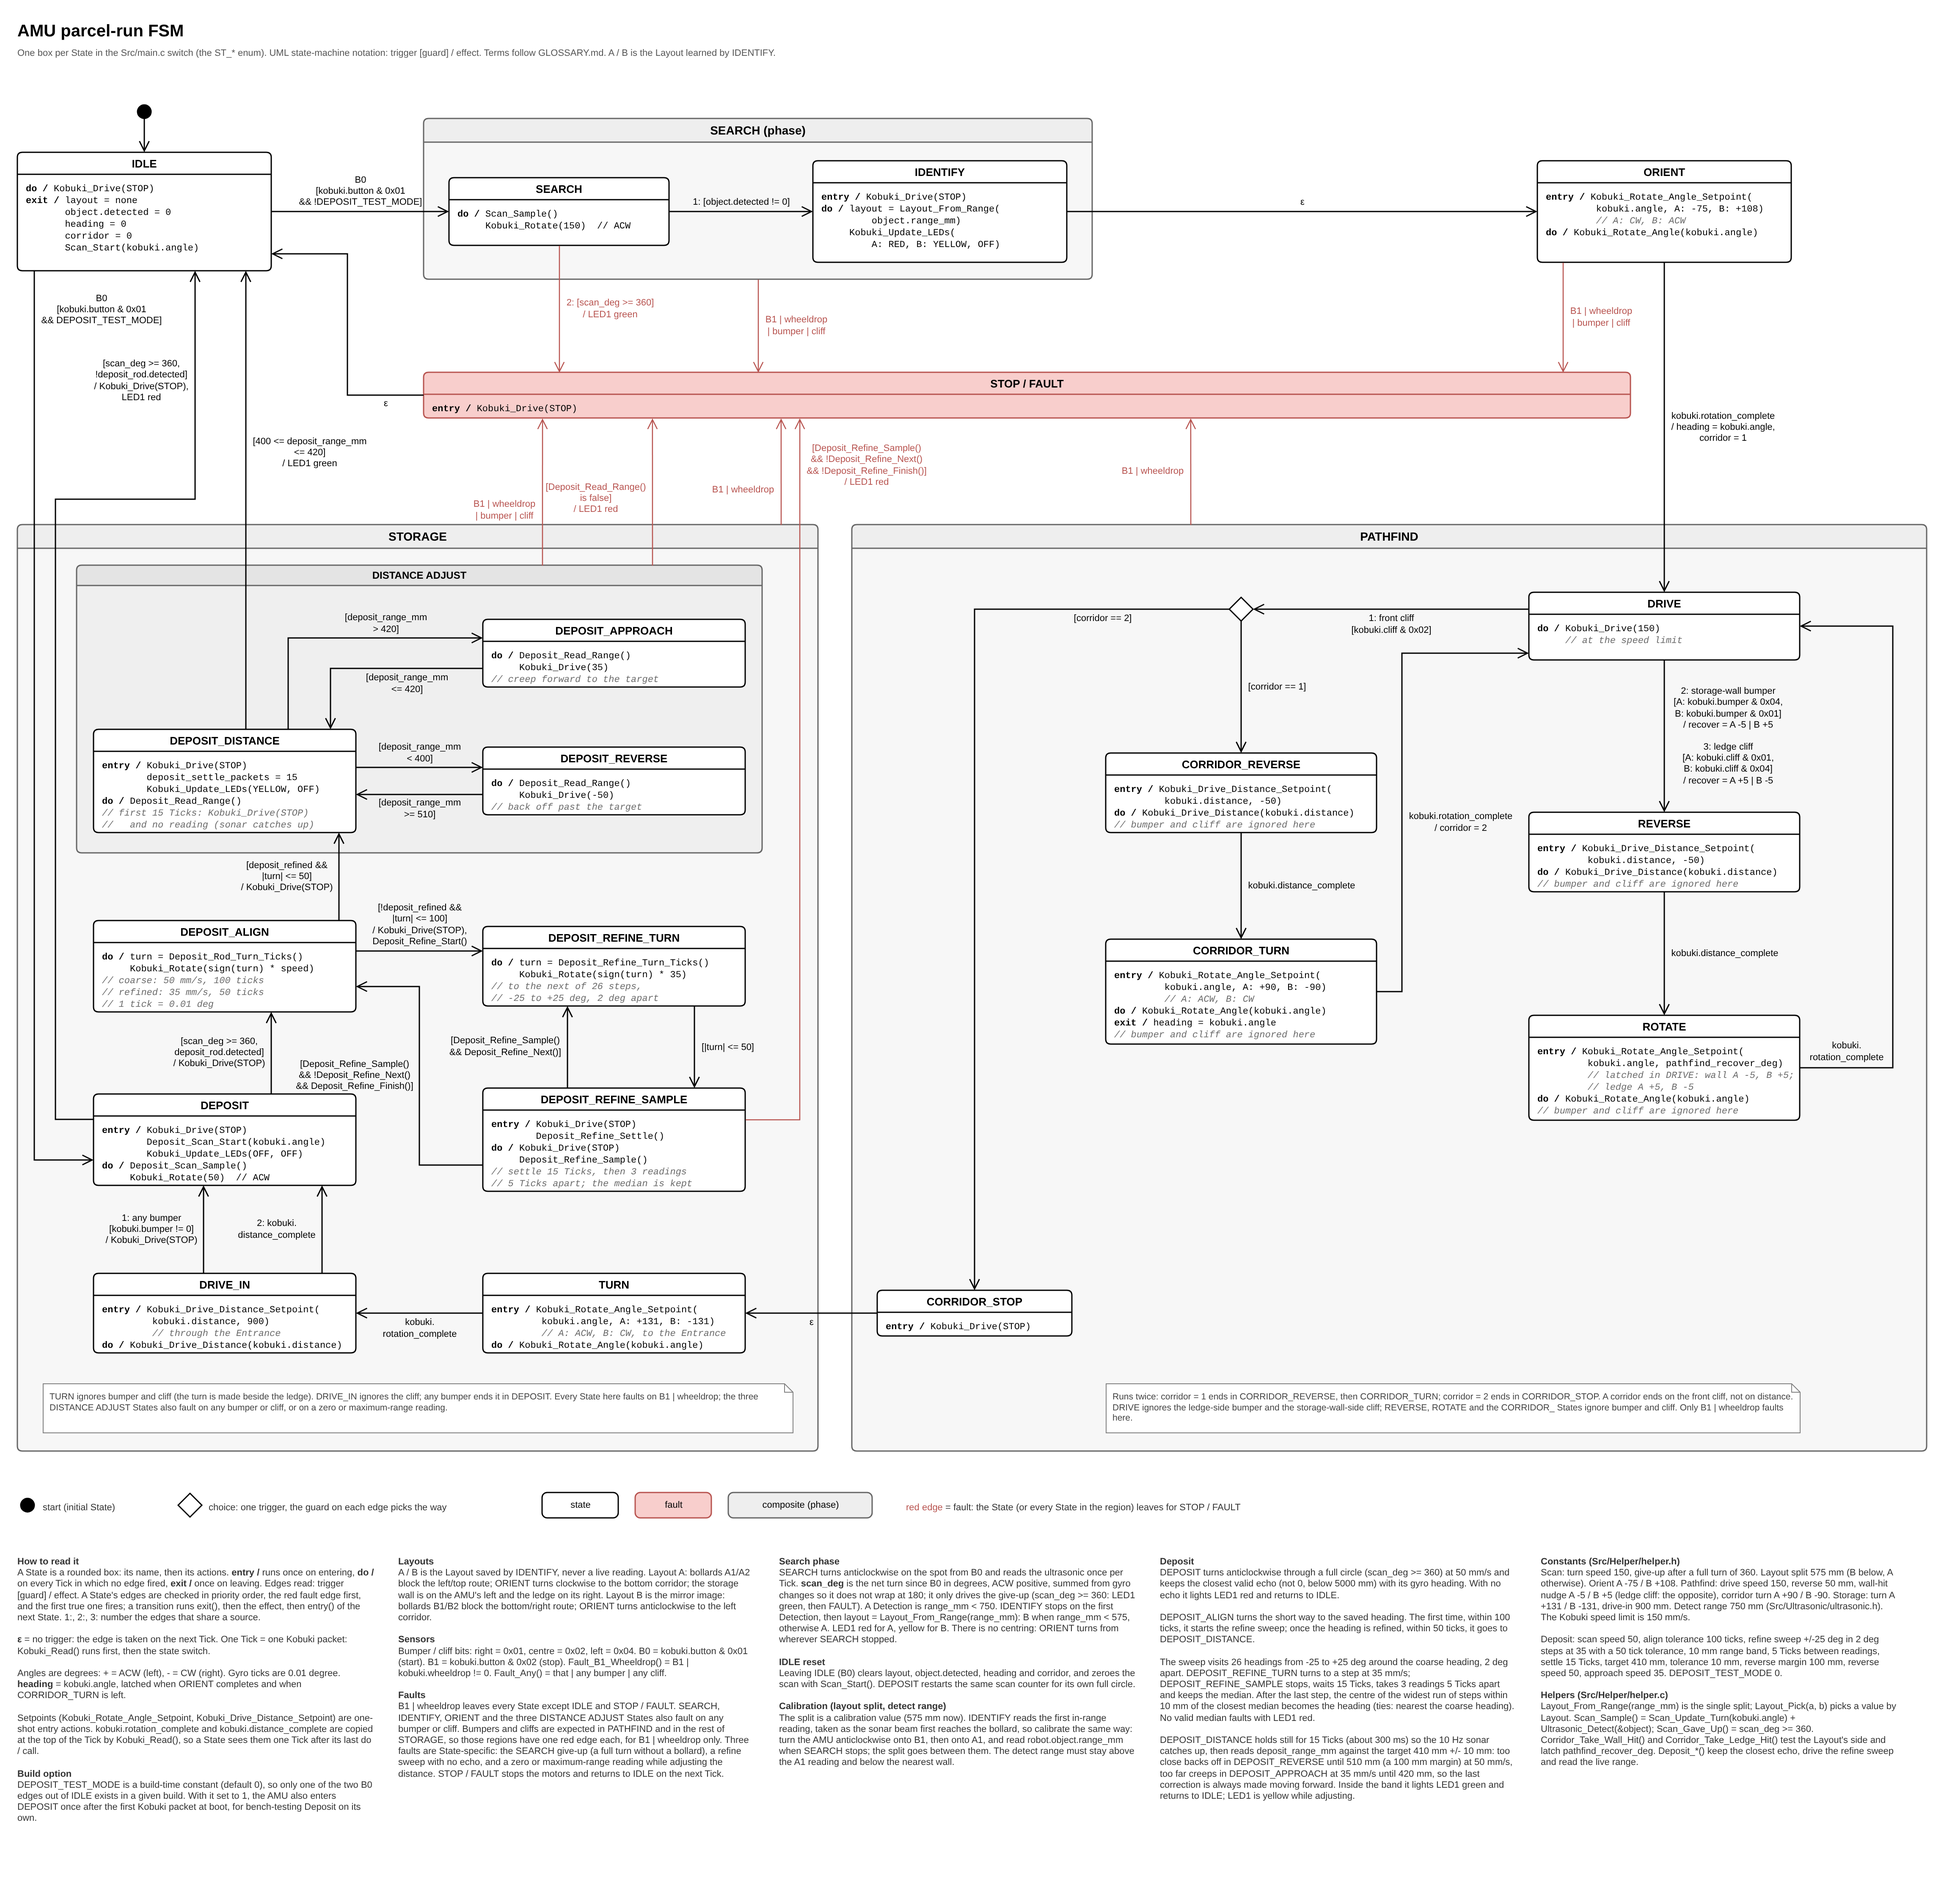
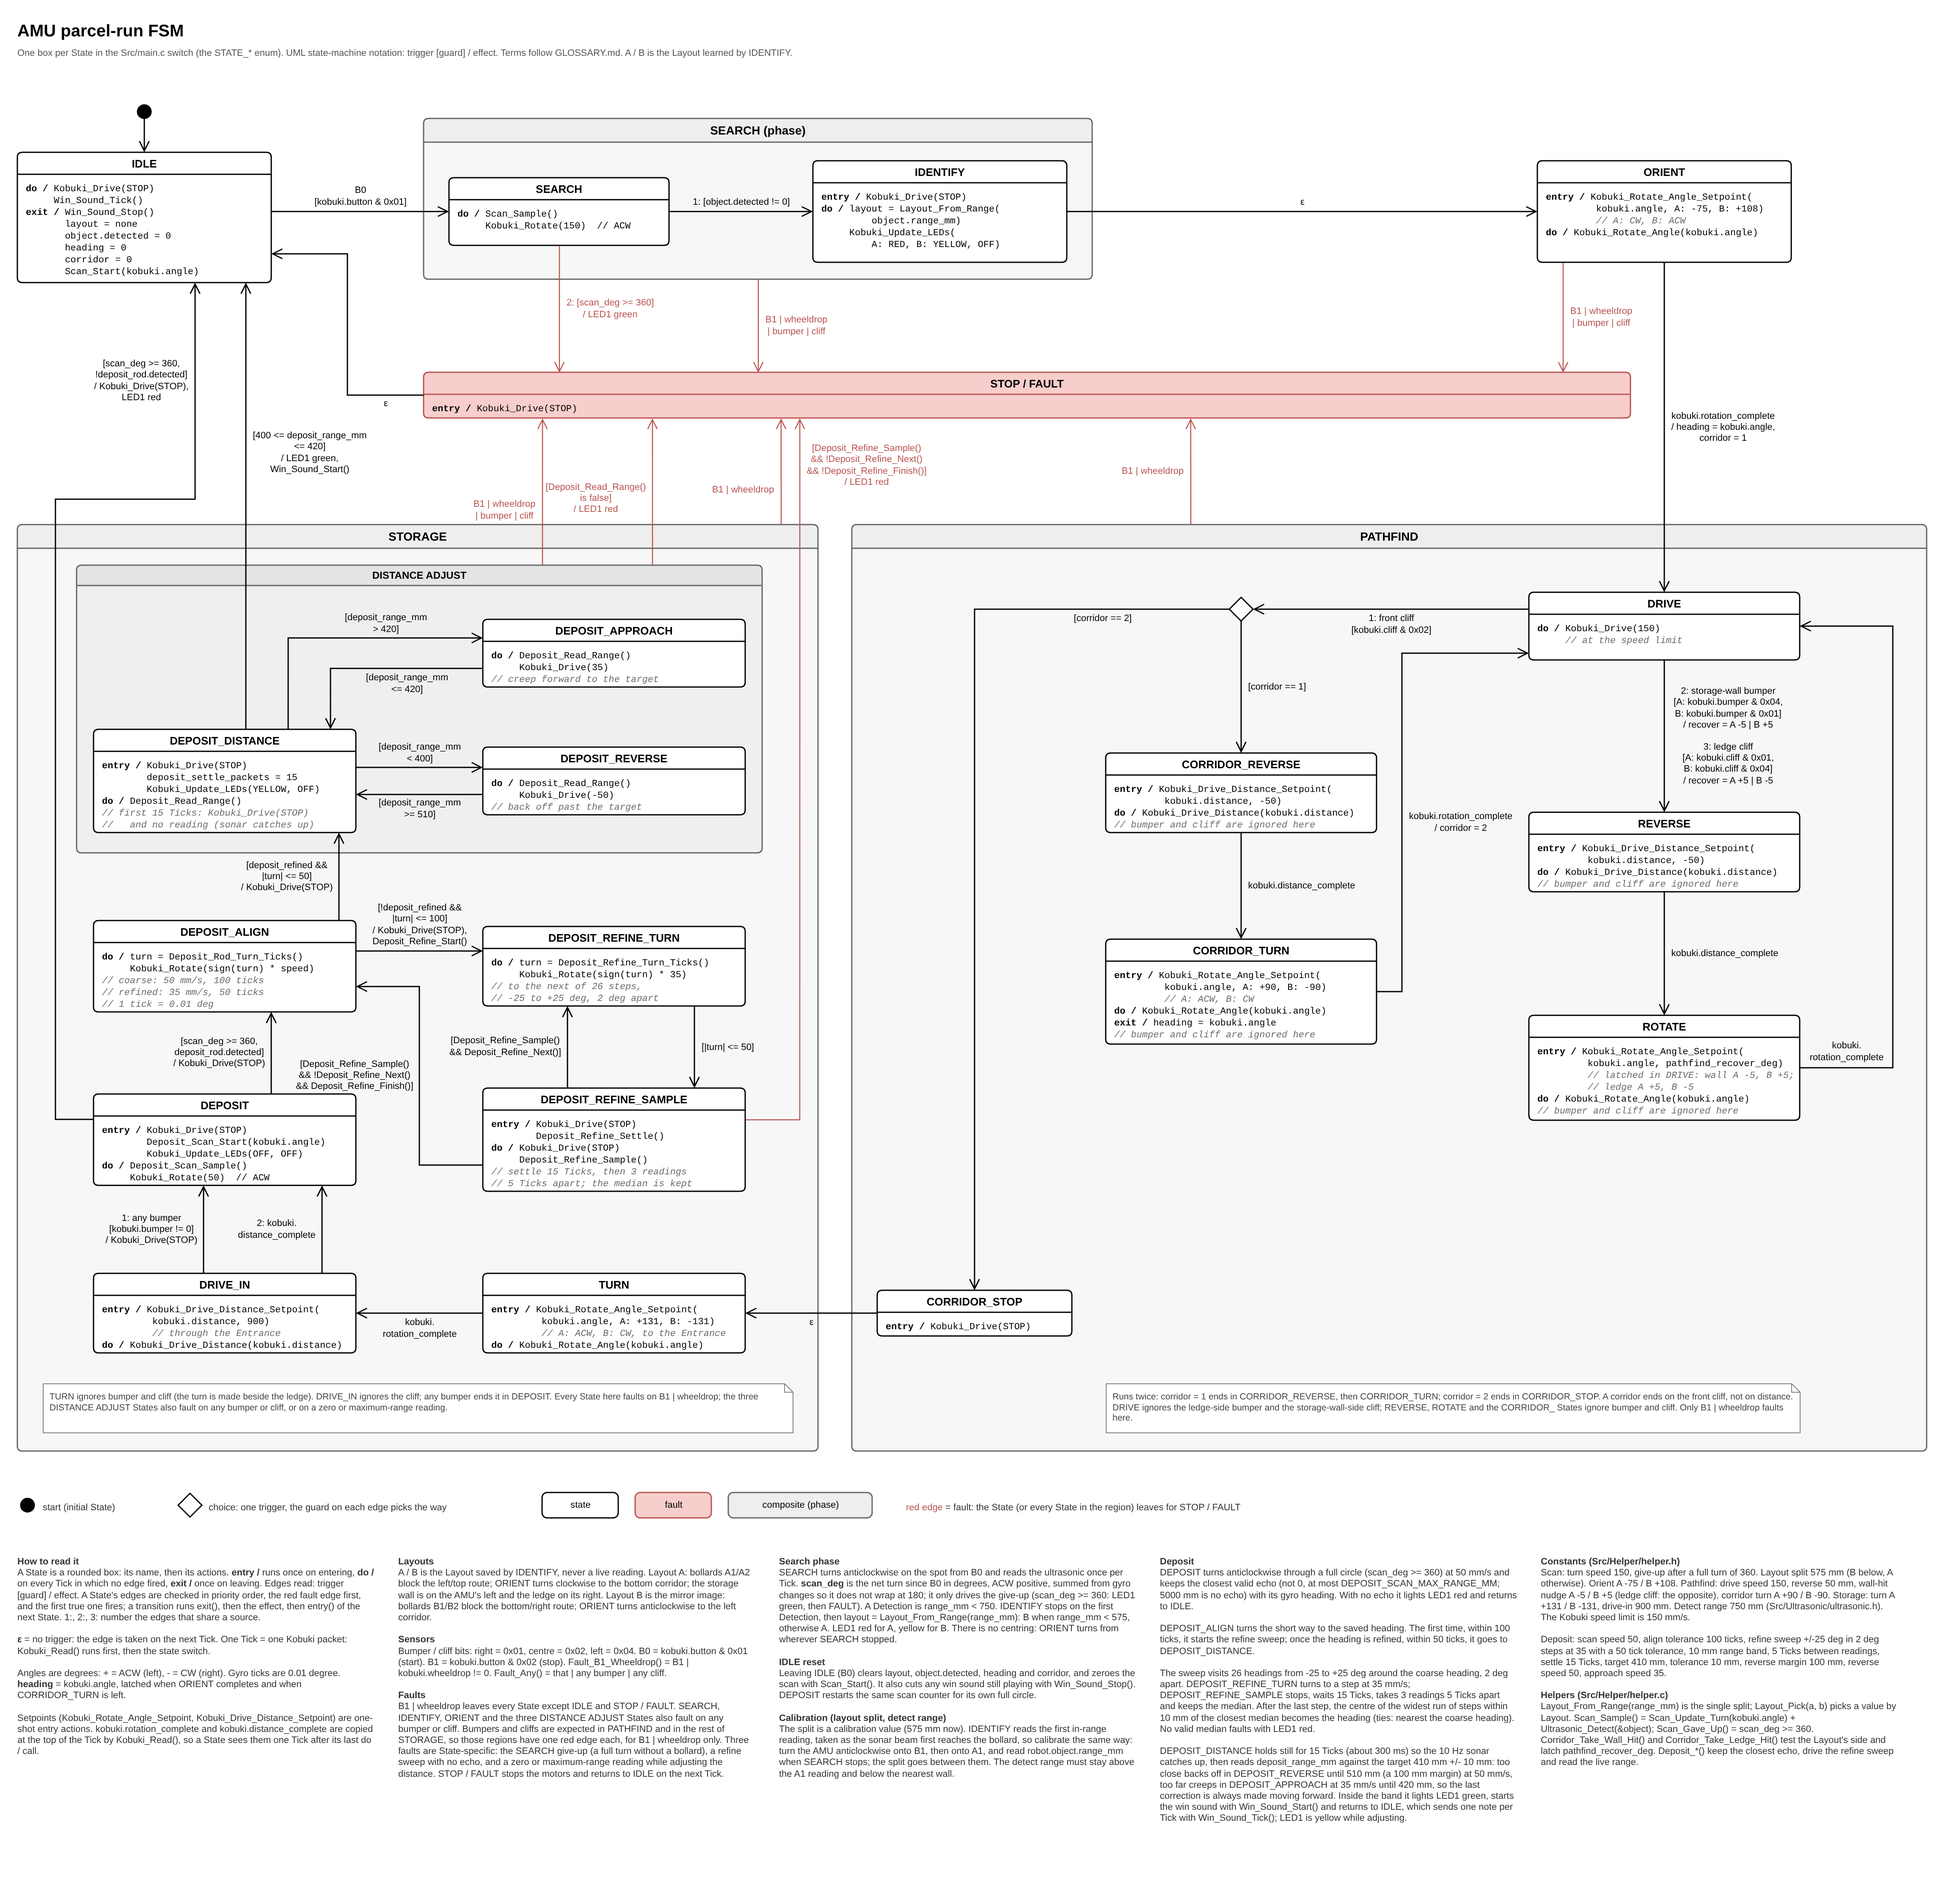
docs: sync FSM diagram and docs with the code
Remove the DEPOSIT_TEST_MODE edge and notes (the option no longer exists),
show Win_Sound_Stop() in IDLE's exit, and say STATE_* in the subtitle.
Fix the Deposit scan range in the README (3000 mm) and the Orient angles
in the glossary (A -75 / B +108). The checker now also covers exit actions.

Claude-Session: https://claude.ai/code/session_012MSpm3idFB7EGuywQYBMuC

diff --git a/docs/amu_fsm_gen.py b/docs/amu_fsm_gen.py
@@ -295,20 +295,23 @@ BAR_Y, BAR_H = 440, 54
 
 plain("title", 40, 20, 900, 30, "<b>AMU parcel-run FSM</b>", size=20, color="#000000")
 plain("subtitle", 40, 52, 2200, 18,
-      "One box per State in the Src/main.c switch (the ST_* enum). UML state-machine notation: "
+      "One box per State in the Src/main.c switch (the STATE_* enum). UML state-machine notation: "
       "trigger [guard] / effect. Terms follow GLOSSARY.md. A / B is the Layout learned by IDENTIFY.",
       size=11, color="#555555")
 
 # ---- initial pseudo-state (top-left) and IDLE
 pseudo("start", "ellipse", 182, 124, 16, "#000000")
+IDLE_H = 154
+IDLE_BOTTOM = 180 + IDLE_H
 state("idle", "1", 40, 180, 300, "IDLE", [
     "do / Kobuki_Drive(STOP)",
     "     Win_Sound_Tick()",
-    "exit / layout = none",
+    "exit / Win_Sound_Stop()",
+    "       layout = none",
     "       object.detected = 0",
     "       heading = 0",
     "       corridor = 0",
-    "       Scan_Start(kobuki.angle)"], hgt=140)
+    "       Scan_Start(kobuki.angle)"], hgt=IDLE_H)
 
 # ---- SEARCH phase
 composite("search_phase", 520, 140, 790, 190, "SEARCH (phase)")
@@ -478,7 +481,7 @@ BAR_MID = BAR_Y + BAR_H / 2
 # main flow: start -> IDLE -> SEARCH -> IDENTIFY -> ORIENT -> DRIVE -> ...
 edge("e_start", "start", "idle", [(190, 140), (190, 180)])
 edge("e_idle_search", "idle", "search", [(340, ROW1), (550, ROW1)],
-     lines=["B0", "[kobuki.button & 0x01", "&& !DEPOSIT_TEST_MODE]"], seg=0, side="above")
+     lines=["B0", "[kobuki.button & 0x01]"], seg=0, side="above")
 edge("e_search_identify", "search", "identify", [(810, ROW1), (980, ROW1)],
      lines=["1: [object.detected != 0]"], seg=0, side="above")
 edge("e_identify_orient", "identify", "orient", [(1280, ROW1), (ORIENT_X, ROW1)],
@@ -560,15 +563,12 @@ edge("e_drivein_deposit_done", "drive_in", "deposit",
 edge("e_deposit_align", "deposit", "d_align", [(C1 + 210, gy("deposit")), (C1 + 210, bottom("d_align"))],
      lines=["[scan_deg >= 360,", "deposit_rod.detected]", "/ Kobuki_Drive(STOP)"], seg=0, side="left", gap=8)
 
-# DEPOSIT <-> IDLE lanes on the left margin: T goes down on the outer lane, N comes back up on the inner one
-LANE_T, LANE_N, JOG_Y = 60, 85, 590
+# DEPOSIT -> IDLE lane on the left margin (no echo in the full-circle scan)
+LANE_N, JOG_Y = 85, 590
 N_X, D_X = 250, 310
-yN, yT = yD - 24, yD + 24
-T_LBL = ["B0", "[kobuki.button & 0x01", "&& DEPOSIT_TEST_MODE]"]
+yN = yD - 24
 N_LBL = ["[scan_deg >= 360,", "!deposit_rod.detected]", "/ Kobuki_Drive(STOP),", "LED1 red"]
-edge("e_idle_deposit", "idle", "deposit", [(LANE_T, 320), (LANE_T, yT), (C1, yT)],
-     lines=T_LBL, seg=0, side="right", gap=8, at=lbl_right_of(LANE_T, 365, T_LBL))
-edge("e_deposit_idle", "deposit", "idle", [(C1, yN), (LANE_N, yN), (LANE_N, JOG_Y), (N_X, JOG_Y), (N_X, 320)],
+edge("e_deposit_idle", "deposit", "idle", [(C1, yN), (LANE_N, yN), (LANE_N, JOG_Y), (N_X, JOG_Y), (N_X, IDLE_BOTTOM)],
      lines=N_LBL, seg=3, side="left", gap=8, at=lbl_left_of(N_X, 450, N_LBL))
 
 edge("e_align_rturn", "d_align", "d_rturn", [(C1R, yC - 18), (C2L, yC - 18)],
@@ -589,7 +589,7 @@ edge("e_rsample_align", "d_rsample", "d_align",
 E_B, E_C = C1 + 230, C1 + 280                    # elbow lanes on DISTANCE's top edge, right of the IDLE line
 y_app1, y_app2 = yA - 18, yA + 18
 D_LBL = ["[400 <= deposit_range_mm", "<= 420]", "/ LED1 green,", "Win_Sound_Start()"]
-edge("e_dist_idle", "d_dist", "idle", [(D_X, gy("d_dist")), (D_X, 320)],
+edge("e_dist_idle", "d_dist", "idle", [(D_X, gy("d_dist")), (D_X, IDLE_BOTTOM)],
      lines=D_LBL, seg=0, side="right", gap=8, at=lbl_right_of(D_X, 535, D_LBL))
 edge("e_dist_rev", "d_dist", "d_rev", [(C1R, yB - 16), (C2L, yB - 16)],
      lines=["[deposit_range_mm", "< 400]"], seg=0, side="above")
@@ -639,10 +639,7 @@ n1 = ("<b>How to read it</b><br>A State is a rounded box: its name, then its act
       "kobuki.angle, latched when ORIENT completes and when CORRIDOR_TURN is left.<br><br>"
       "Setpoints (Kobuki_Rotate_Angle_Setpoint, Kobuki_Drive_Distance_Setpoint) are one-shot entry actions. "
       "kobuki.rotation_complete and kobuki.distance_complete are copied at the top of the Tick by "
-      "Kobuki_Read(), so a State sees them one Tick after its last do / call.<br><br>"
-      "<b>Build option</b><br>DEPOSIT_TEST_MODE is a build-time constant (default 0), so only one of the two B0 "
-      "edges out of IDLE exists in a given build. With it set to 1, the AMU also enters DEPOSIT once after the "
-      "first Kobuki packet at boot, for bench-testing Deposit on its own.")
+      "Kobuki_Read(), so a State sees them one Tick after its last do / call.")
 
 n2 = ("<b>Layouts</b><br>A / B is the Layout saved by IDENTIFY, never a live reading. Layout A: bollards A1/A2 "
       "block the left/top route; ORIENT turns clockwise to the bottom corridor; the storage wall is on the "
@@ -697,7 +694,7 @@ n5 = ("<b>Constants (Src/Helper/helper.h)</b><br>Scan: turn speed 150, give-up a
       "speed limit is 150 mm/s.<br><br>"
       "Deposit: scan speed 50, align tolerance 100 ticks, refine sweep +/-25 deg in 2 deg steps at 35 with a "
       "50 tick tolerance, 10 mm range band, 5 Ticks between readings, settle 15 Ticks, target 410 mm, "
-      "tolerance 10 mm, reverse margin 100 mm, reverse speed 50, approach speed 35. DEPOSIT_TEST_MODE 0.<br><br>"
+      "tolerance 10 mm, reverse margin 100 mm, reverse speed 50, approach speed 35.<br><br>"
       "<b>Helpers (Src/Helper/helper.c)</b><br>Layout_From_Range(range_mm) is the single split; "
       "Layout_Pick(a, b) picks a value by Layout. Scan_Sample() = Scan_Update_Turn(kobuki.angle) + "
       "Ultrasonic_Detect(&amp;object); Scan_Gave_Up() = scan_deg >= 360. Corridor_Take_Wall_Hit() and "

diff --git a/docs/amu_fsm_check.py b/docs/amu_fsm_check.py
@@ -20,7 +20,7 @@ import xml.etree.ElementTree as ET
 REPO = os.path.dirname(os.path.dirname(os.path.abspath(__file__)))
 DRAWIO = sys.argv[1] if len(sys.argv) > 1 else os.path.join(REPO, "docs", "amu_fsm.drawio")
 
-# ST_* enum name -> diagram cell id
+# STATE_* enum name -> diagram cell id
 ID = {
     "STATE_IDLE": "idle", "STATE_SEARCH": "search", "STATE_IDENTIFY": "identify", "STATE_ORIENT": "orient",
     "STATE_DRIVE": "p_drive", "STATE_REVERSE": "p_reverse", "STATE_ROTATE": "p_rotate",
@@ -63,7 +63,7 @@ for name, body in zip(blocks[1::2], blocks[2::2]):
     code_specific[src] = "change_to(STATE_FAULT)" in rest
 
 states_enum = set(re.findall(r"\bSTATE_\w+", main_c[:main_c.index("} State;")]))
-check(states_enum == set(ID), "ST_* enum == the %d States the diagram maps (%s)" % (len(ID), sorted(states_enum ^ set(ID))))
+check(states_enum == set(ID), "STATE_* enum == the %d States the diagram maps (%s)" % (len(ID), sorted(states_enum ^ set(ID))))
 check(len(blocks[1::2]) == len(ID), "main.c switch has %d State cases (found %d)" % (len(ID), len(blocks[1::2])))
 
 # ---------------------------------------------------------- diagram side
@@ -204,8 +204,8 @@ detect = re.search(r"ULTRASONIC_DETECT_RANGE_MM \(\(uint16_t\)(\d+)U\)", ultra).
 maxr = re.search(r"ULTRASONIC_MAX_RANGE_MM\s+\(\(uint16_t\)(\d+)U\)", ultra).group(1)
 check("range_mm < %s" % detect in text, "detect range %s appears" % detect)
 check("%s mm" % maxr in text, "maximum range %s mm appears (no echo)" % maxr)
-check(re.search(r"#define DEPOSIT_TEST_MODE 0", helper_h) is not None and "DEPOSIT_TEST_MODE" in text,
-      "DEPOSIT_TEST_MODE (default 0) is drawn")
+check("DEPOSIT_TEST_MODE" not in helper_h and "DEPOSIT_TEST_MODE" not in main_c and "DEPOSIT_TEST_MODE" not in text,
+      "DEPOSIT_TEST_MODE is gone from the code and is not drawn")
 b0, b1 = define("KOBUKI_BUTTON_B0_MASK"), define("KOBUKI_BUTTON_B1_MASK")
 check(b0 == 1 and "kobuki.button & 0x01" in text, "B0 = button & 0x01")
 check(b1 == 2 and "kobuki.button & 0x02" in text, "B1 = button & 0x02")
@@ -253,10 +253,17 @@ for name, body in zip(blocks[1::2], blocks[2::2]):
     for fn in dict.fromkeys(f for f in re.findall(r"\b((?:Kobuki|Scan|Deposit)_\w+)\(", body) if f not in IGNORED):
         check(shown(fn, ID[name]), "%s calls %s() in its box or edge labels" % (name, fn))
 
+# exit actions in change_to() must be written in the State's box
+exit_src = main_c[main_c.index("static void change_to"):main_c.index("state = next;")]
+for m in re.finditer(r"case (STATE_\w+):(.*?)break;", exit_src, re.S):
+    for fn in dict.fromkeys(re.findall(r"\b((?:Kobuki|Scan|Deposit|Win_Sound)_\w+)\(", m.group(2))):
+        check("exit / " in body_of(ID[m.group(1)]) and fn in body_of(ID[m.group(1)]),
+              "%s exit calls %s() in its box" % (m.group(1), fn))
+
 # stale names must be gone
 for stale in ["scan_sample()", "scan_give_up()", "Kobuki_Drive(100)", "Rotate(+100)", "A: -90", "B: +135", "1000 mm",
               "Kobuki_Drive(-100)", "SCAN_SPEED_MM_S", "SCAN_FULL_DEG", "LAYOUT_B_MAX_MM", "PATHFIND_ROTATE_",
-              "PATHFIND_CORNER_A", "ORIENT_A_DEG", "stub", "not built yet", "(stub"]:
+              "PATHFIND_CORNER_A", "ORIENT_A_DEG", "stub", "not built yet", "(stub", "ST_*", "!DEPOSIT_TEST_MODE"]:
     check(stale not in text, "stale text gone: %r" % stale)
 
 print()

diff --git a/README.md b/README.md
@@ -26,7 +26,7 @@ Pathfind recovery is **Drive → Reverse (−50 mm) → Rotate (wall hit: A −5
 
 ### Deposit
 
-After Drive-in the AMU turns anticlockwise through a full 360° at 50 mm/s wheel speed and records the closest valid ultrasonic target within `DEPOSIT_SCAN_MAX_RANGE_MM` (currently **1000 mm**; farther echoes are ignored) and its gyro heading. It then turns by the shortest route to face that saved heading, finishing within 1°, and refines the heading with a local scan (below). Once it faces the refined heading it adjusts the ultrasonic reading to the target range (`DEPOSIT_TARGET_RANGE_MM`, currently **410 mm**, ±`DEPOSIT_RANGE_TOLERANCE_MM`, currently **10 mm**) before stopping in Idle. A full-circle scan with no valid echo within that range stops in Idle with LED 1 red.
+After Drive-in the AMU turns anticlockwise through a full 360° at 50 mm/s wheel speed and records the closest valid ultrasonic target within `DEPOSIT_SCAN_MAX_RANGE_MM` (currently **3000 mm**; farther echoes are ignored) and its gyro heading. It then turns by the shortest route to face that saved heading, finishing within 1°, and refines the heading with a local scan (below). Once it faces the refined heading it adjusts the ultrasonic reading to the target range (`DEPOSIT_TARGET_RANGE_MM`, currently **410 mm**, ±`DEPOSIT_RANGE_TOLERANCE_MM`, currently **10 mm**) before stopping in Idle. A full-circle scan with no valid echo within that range stops in Idle with LED 1 red.
 
 The local scan covers **±25°** around the coarse heading in **2° steps** at 35 mm/s wheel speed. At each step the AMU stops for about 300 ms, then takes three readings spaced about 100 ms apart and keeps their median, so one bad echo cannot choose the heading. It chooses the centre of the widest contiguous group of steps within 10 mm of the local minimum, so a flat response across the ultrasonic beam aims at its middle. Separate echoes are kept apart, and equal-width groups prefer the one nearest the coarse heading. It then returns to this refined heading, stopping when the gyro error is within 0.5°. If the local scan finds no valid echo, it stops through Fault with LED 1 red, without driving forward or backward. Physical accuracy still depends on the beam, gyro and sensor calibration. The scan width, step size, sampling times and speeds are tunables in `Src/Helper/helper.h`.
 

diff --git a/GLOSSARY.md b/GLOSSARY.md
@@ -26,7 +26,7 @@ The enclosed bay the parcel is delivered into, reached through a diagonal entran
 _Avoid_: the unit, freezer, storage (when the unit itself is meant)
 
 **Storage wall**:
-The outer wall of the storage unit that runs alongside the corridors. With Orient A = −90° / B = +90°, Layout A has it on the AMU's left and the ledge on its right; Layout B is the mirror image.
+The outer wall of the storage unit that runs alongside the corridors. With Orient A = −75° / B = +108°, Layout A has it on the AMU's left and the ledge on its right; Layout B is the mirror image.
 _Avoid_: unit wall, side wall
 
 **Entrance**:
